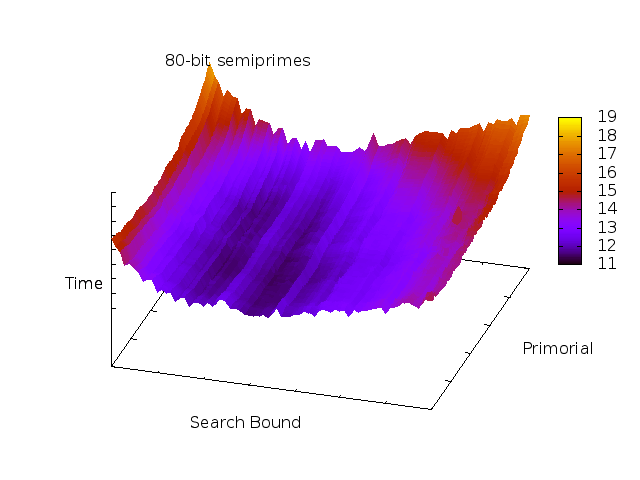
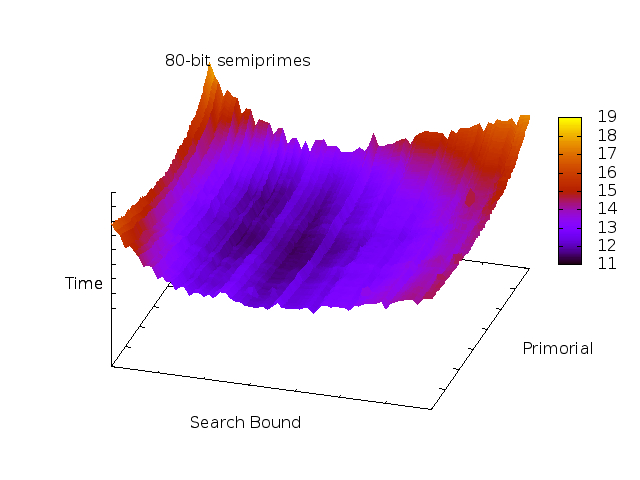
extended the graph for the search space of 80bit sspar and added table showing the (minimal) benefit of no 2-sylow

Changed region(s): [[0.1562, 0.2188, 0.8125, 0.6562]]

diff --git a/presentation/presentation.tex b/presentation/presentation.tex
@@ -129,7 +129,7 @@ Major goals:
 
 % SOME USES
 \begin{frame}
-\frametitle{Some Uses}
+\frametitle{Some Possible Applications}
 These are just a few possible applications. \bigskip
 
 Ideal class group:
@@ -217,6 +217,7 @@ Our implementation is based on NUCOMP, NUDUPL, and NUCUBE. % TODO CITE
 \end{frame}  
 
 % XGCD
+\begin{comment}
 \begin{frame}
 \frametitle{Extended Greatest Common Divisor (XGCD)}
 Extended greatest common divisor solves
@@ -232,6 +233,7 @@ TODO: This is madness
 for $t \le B < s$ for some termination bound $B$ given by NUCOMP, NUDUPL, or NUCUBE.
 
 \end{frame}
+\end{comment}
 
 % XGCD Experiments
 \begin{frame}
@@ -265,7 +267,7 @@ for $t \le B < s$ for some termination bound $B$ given by NUCOMP, NUDUPL, or NUC
 
 % XGCD Results
 \begin{frame}
-\frametitle{Extended Greatest Common Divisor Results}
+\frametitle{XGCD Results}
 TODO: Insert picture
 \end{frame}
 
@@ -316,6 +318,16 @@ TODO: Took about a day
 \begin{frame}
 \frametitle{Ideal Class Group Results}
 TODO: insert pretty picture
+\end{frame}
+
+% SPAR/SUPERSPAR
+\begin{frame}
+\frametitle{SPAR/SuperSPAR}
+Two stages:
+\begin{itemize}
+\item Exponentiate a random ideal class.
+\item Search for the order of the resulting ideal class.
+\end{itemize}
 \end{frame}
 
 % EXPONENTIATION
@@ -601,7 +613,26 @@ which is approximated by shifting $x$ right by $\floor{\floor{\log_2x+1}/2}$ bit
 \end{figure}
 \end{frame}
 
-
+\begin{frame}
+\frametitle{SPAR -- Expanding the 2-Sylow Group}
+\begin{table}
+\centering
+\begin{tabular}{| r | r | r |}
+	\hline
+	Bits & With 2-Sylow Group & Without 2-Sylow Group \\
+	\hline
+	16 &   48.05208 &   48.02160 \\
+	20 &   84.20318 &   84.09526 \\
+	24 &  197.02479 &  196.84587 \\
+	28 &  463.70674 &  463.60538 \\
+	32 &  937.57875 &  935.81785 \\
+	36 & 1709.55629 & 1706.32960 \\
+	40 & 3255.31447 & 3248.67998 \\
+	\hline
+\end{tabular}
+\caption{Average time in microseconds to factor using SPAR when the number of ideals per class group is bound by the size of the integer to factor.}
+\end{table}
+\end{frame}
 
 \end{document}
 
